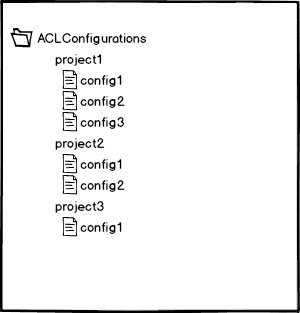
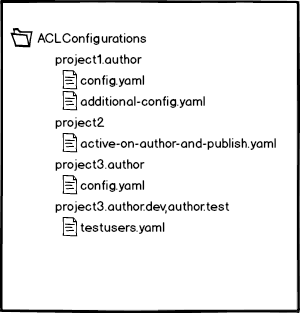
#32 Updated docs

diff --git a/README.md b/README.md
@@ -29,6 +29,7 @@ mvn -PautoInstallPackage install
 
 For better human readability and easy editing the ACL configuration files use the YAML format.
 
+
 ## Overall structure a of an AC configuration file
 
 <img src="docs/images/configuration-file-structure.png">
@@ -74,7 +75,8 @@ In general it is best practice to not generate regular users by the AC Tool but 
 
 Users can be configured in the same way as groups in the **user_config** section. There are two differences to groups:
 
-* the attribute members cannot be used (for obvious reasons)
+* the attribute "members" cannot be used (for obvious reasons)
+* the attribute "password" can be used for preset passwords 
 * the boolean attribute isSystemUser is used to create system users in AEM 6.1
 
 
@@ -240,7 +242,9 @@ Example showing 3 separate project-specific configuration sub-nodes each contain
 
 <img src="docs/images/crx-storage.png">
 
-The projectspecific configuration files get stored in CRX under a node which can be set in the OSGi configuration of the AcService (system/console/configMgr). Each child node contains the project specific configuration file(s). Everytime a new installation gets executed, the newest configuration file gets used. The folder structure gets created by deployment or manually in CRX. Each time a new configuration file gets uploaded in CRX (e.g. deployment) or the content of a file gets changed a node listener can trigger a new installation of the configurations. This behaviour can be enabled/disabled in UploadListenerService OSGi config.
+The project specific configuration files are stored in CRX under a node which can be set in the OSGi configuration of the AcService (system/console/configMgr). Each folder underneath this location may contain `*.yaml` files that contain AC configuration. The folder structure gets created by deployment or manually in CRX. 
+
+In general the parent node may specify required Sling run modes being separated by a dot (```.```). Folder names can contain runmodes in the same way as OSGi configurations ([installation of OSGi bundles through JCR packages in Sling](http://sling.apache.org/documentation/bundles/jcr-installer-provider.html)) using a `.` (e.g. `myproject.author` will only become active on author). Additionally, multiple runmodes combinations can be given separated by comma to avoid duplication of configuration (e.g. `myproject.author.test,author.dev` will be active on authors of dev and test environment only). Each time a new configuration file gets uploaded in CRX (e.g. deployment) or the content of a file gets changed a node listener can trigger a new installation of the configurations. This behaviour can be enabled/disabled in UploadListenerService OSGi config.
 
 ## Installation process
 
@@ -249,7 +253,8 @@ During the installation all groups defined in the groups section of the configur
 If at any point during the installation an ecxeption occurs, no changes get persisted in the system. This prevents ending up having a undefined state in the repository.
 
 During the installation a history containing the most important events gets ceated and persisted in CRX for later examination.
-Merging of  ACEs
+
+### Merging of ACEs
 
 To achieve the aforementioned requirements every new installation comprises the following steps:
 
@@ -280,11 +285,7 @@ To enable that on a package being created with Maven through the content-package
 </plugin>
 ```
 
-Now it depends on where those ```*.yaml``` are located in the package, because not in all cases they are being installed.
-In general the parent node may specify required Sling run modes being separated by a dot (```.```). They specify the minimum required Sling run modes to be set in order for the YAML children files to be installed. This mechanism works similar as the [installation of OSGi bundles through JCR packages in Sling](http://sling.apache.org/documentation/bundles/jcr-installer-provider.html).
-
-E.g. the parent node name ```somename.publish``` will require at least the ```publish``` run mode to be set in order for the YAML children to be installed by the Installation Hook mechanism. The parent node name may also specify multiple required run modes.
-If the parent node name does not contain a dot it will always be installed up (independent of any run modes). Except for those parent name limitations it does not matter at all where those ```*.yaml``` are located within the package (they will always be found by the install hook).
+The ```*.yaml``` files are installed directly from the package content and respect the same runmode semantics as described above. 
 
 Although it is not necessary that the YAML files are covered by the filter rules of the ```filter.xml```, this is recommended practice. That way you can see afterwards in the repository which YAML files have been processed. However if you would not let the ```filter.xml``` cover your YAML files, those files would still be processed by the installation hook.
     
